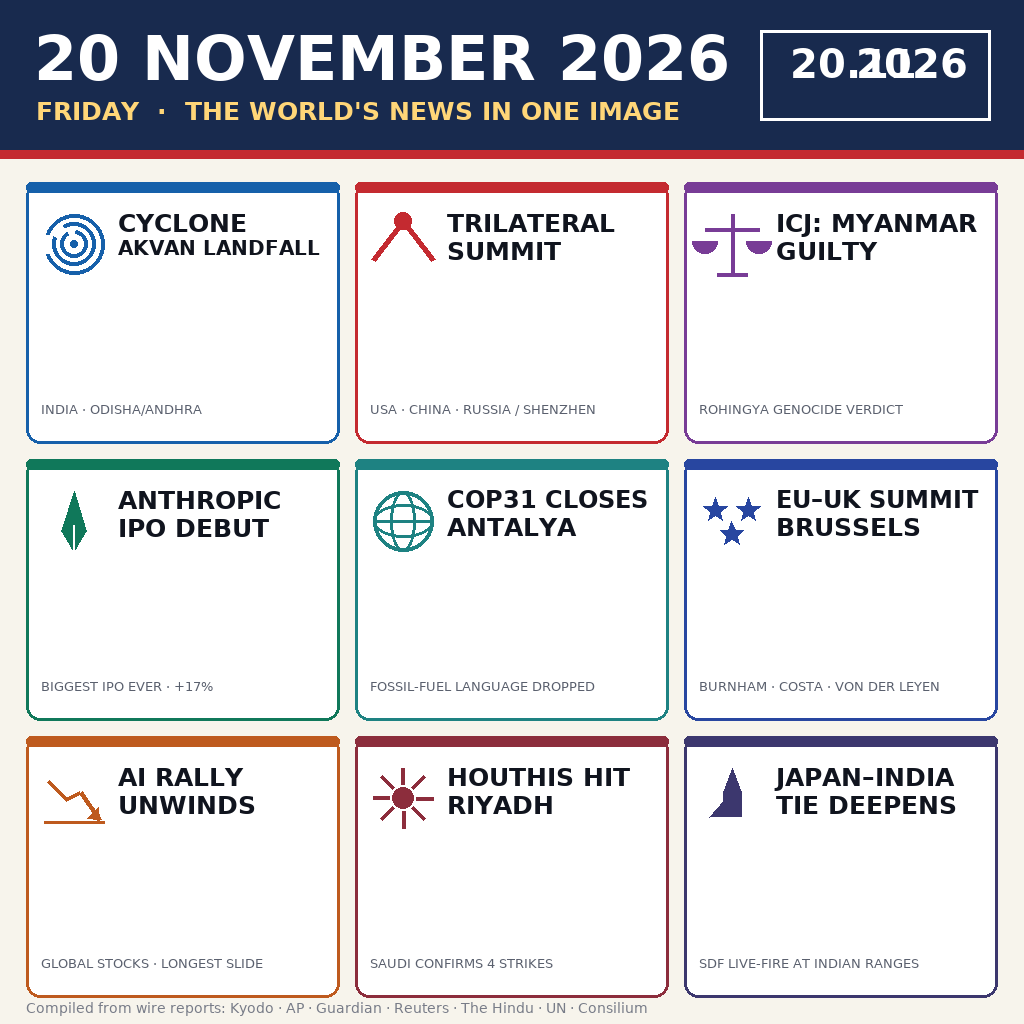
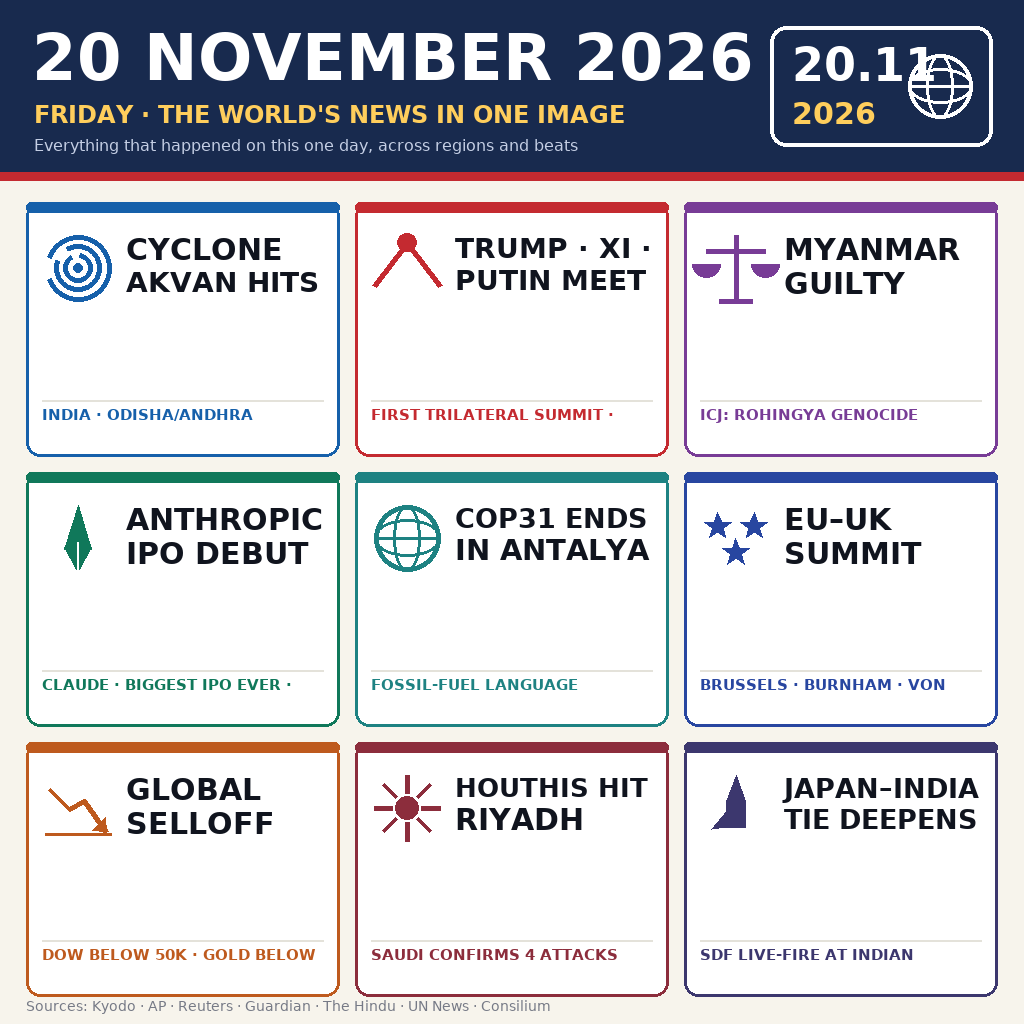
Sharpen poster: name the day, name leaders, larger type, date badge

diff --git a/draw_news.py b/draw_news.py
@@ -21,16 +21,16 @@ PAPER = (247, 244, 236)
 ACCENT = (196, 42, 48)
 NAVY = (24, 42, 78)
 
-# Each card: (title lines, region line, colour, icon kind)
+# Each card: (title lines, detail line, colour, icon kind)
 CARDS = [
-    (["CYCLONE", "AKVAN LANDFALL"], "INDIA · ODISHA/ANDHRA", (22, 96, 170), "cyclone"),
-    (["TRILATERAL", "SUMMIT"], "USA · CHINA · RUSSIA / SHENZHEN", ACCENT, "summit"),
-    (["ICJ: MYANMAR", "GUILTY"], "ROHINGYA GENOCIDE VERDICT", (120, 60, 150), "scales"),
-    (["ANTHROPIC", "IPO DEBUT"], "BIGGEST IPO EVER · +17%", (16, 120, 90), "rocket"),
-    (["COP31 CLOSES", "ANTALYA"], "FOSSIL-FUEL LANGUAGE DROPPED", (30, 130, 130), "globe"),
-    (["EU–UK SUMMIT", "BRUSSELS"], "BURNHAM · COSTA · VON DER LEYEN", (40, 70, 160), "stars"),
-    (["AI RALLY", "UNWINDS"], "GLOBAL STOCKS · LONGEST SLIDE", (190, 90, 30), "chart"),
-    (["HOUTHIS HIT", "RIYADH"], "SAUDI CONFIRMS 4 STRIKES", (140, 45, 60), "blast"),
+    (["CYCLONE", "AKVAN HITS"], "INDIA · ODISHA/ANDHRA", (22, 96, 170), "cyclone"),
+    (["TRUMP · XI ·", "PUTIN MEET"], "FIRST TRILATERAL SUMMIT · SHENZHEN", ACCENT, "summit"),
+    (["MYANMAR", "GUILTY"], "ICJ: ROHINGYA GENOCIDE VERDICT", (120, 60, 150), "scales"),
+    (["ANTHROPIC", "IPO DEBUT"], "CLAUDE · BIGGEST IPO EVER · +17%", (16, 120, 90), "rocket"),
+    (["COP31 ENDS", "IN ANTALYA"], "FOSSIL-FUEL LANGUAGE DROPPED", (30, 130, 130), "globe"),
+    (["EU–UK", "SUMMIT"], "BRUSSELS · BURNHAM · VON DER LEYEN", (40, 70, 160), "stars"),
+    (["GLOBAL", "SELLOFF"], "DOW BELOW 50K · GOLD BELOW $3,600", (190, 90, 30), "chart"),
+    (["HOUTHIS HIT", "RIYADH"], "SAUDI CONFIRMS 4 ATTACKS", (140, 45, 60), "blast"),
     (["JAPAN–INDIA", "TIE DEEPENS"], "SDF LIVE-FIRE AT INDIAN RANGES", (60, 55, 110), "missile"),
 ]
 
@@ -138,39 +138,53 @@ def draw_card(d, card, x, y, cw, ch):
     d.rounded_rectangle((x, y, x + cw, y + ch), radius=14, fill=(255, 255, 255),
                         outline=col, width=3)
     d.rounded_rectangle((x, y, x + cw, y + 10), radius=5, fill=col)
-    icon(d, kind, x + 48, y + 62, 30, col)
-    tx = x + 92
-    ty = y + 26
+    icon(d, kind, x + 52, y + 66, 33, col)
+    tx = x + 100
+    ty = y + 30
     for t in titles:
-        f = fit(d, t, FONT_BOLD, cw - 108, 25)
+        f = fit(d, t, FONT_BOLD, cw - 116, 30)
         d.text((tx, ty), t, font=f, fill=INK)
-        ty += f.size + 3
-    fr = font(FONT_REG, 13)
+        ty += f.size + 4
+    fr = font(FONT_BOLD, 15)
     for line in wrap(d, region, fr, cw - 30):
-        d.text((x + 15, y + ch - 42), line, font=fr, fill=(90, 96, 110))
+        d.text((x + 16, y + ch - 50), line, font=fr, fill=col)
         break
+    d.line((x + 16, y + ch - 56, x + cw - 16, y + ch - 56), fill=(228, 226, 218), width=2)
 
 
 def build():
     img = Image.new("RGB", (W, H), PAPER)
     d = ImageDraw.Draw(img)
 
-    d.rectangle((0, 0, W, 150), fill=NAVY)
-    d.rectangle((0, 150, W, 158), fill=ACCENT)
-    f_date = font(FONT_BOLD, 62)
-    d.text((34, 22), "20 NOVEMBER 2026", font=f_date, fill=(255, 255, 255))
-    f_sub = font(FONT_BOLD, 25)
-    d.text((36, 96), "FRIDAY  ·  THE WORLD'S NEWS IN ONE IMAGE", font=f_sub,
-           fill=(255, 214, 120))
-    d.rectangle((760, 30, 990, 120), outline=(255, 255, 255), width=3)
-    f_bd = font(FONT_BOLD, 40)
-    d.text((790, 40), "20.11", font=f_bd, fill=(255, 255, 255))
-    f_bd2 = font(FONT_BOLD, 40)
-    d.text((856, 40), "2026", font=f_bd2, fill=(255, 255, 255))
+    d.rectangle((0, 0, W, 172), fill=NAVY)
+    d.rectangle((0, 172, W, 180), fill=ACCENT)
+    f_date = font(FONT_BOLD, 64)
+    d.text((32, 20), "20 NOVEMBER 2026", font=f_date, fill=(255, 255, 255))
+    f_sub = font(FONT_BOLD, 24)
+    d.text((34, 100), "FRIDAY · THE WORLD'S NEWS IN ONE IMAGE", font=f_sub,
+           fill=(255, 206, 92))
+    f_sub2 = font(FONT_REG, 16)
+    d.text((34, 136), "Everything that happened on this one day, across regions and beats",
+           font=f_sub2, fill=(196, 206, 228))
+
+    # date badge with a small globe, so the day reads at a glance
+    bx = 770
+    d.rounded_rectangle((bx, 26, 992, 146), radius=16, outline=(255, 255, 255), width=4)
+    f_bd = font(FONT_BOLD, 46)
+    d.text((bx + 22, 38), "20.11", font=f_bd, fill=(255, 255, 255))
+    d.text((bx + 22, 96), "2026", font=font(FONT_BOLD, 30), fill=(255, 206, 92))
+    gx, gy, gr = 940, 86, 32
+    d.ellipse((gx - gr, gy - gr, gx + gr, gy + gr), outline=(255, 255, 255),
+              width=4)
+    d.ellipse((gx - gr * 0.42, gy - gr, gx + gr * 0.42, gy + gr), outline=(255, 255, 255),
+              width=3)
+    d.line((gx - gr, gy, gx + gr, gy), fill=(255, 255, 255), width=3)
+    d.arc((gx - gr, gy - gr * 0.55, gx + gr, gy + gr * 0.55), 0, 180, fill=(255, 255, 255), width=3)
+    d.arc((gx - gr, gy - gr * 0.55, gx + gr, gy + gr * 0.55), 180, 360, fill=(255, 255, 255), width=3)
 
     cols, rows = 3, 3
     m, gap = 26, 16
-    top = 182
+    top = 202
     cw = (W - 2 * m - (cols - 1) * gap) // cols
     ch = (H - top - m - (rows - 1) * gap) // rows
     for i, card in enumerate(CARDS):
@@ -178,8 +192,8 @@ def build():
         draw_card(d, card, m + c * (cw + gap), top + r * (ch + gap), cw, ch)
 
     f_foot = font(FONT_REG, 14)
-    d.text((m, H - 24), "Compiled from wire reports: Kyodo · AP · Guardian · Reuters · The Hindu · UN · Consilium",
-           font=f_foot, fill=(120, 124, 136))
+    d.text((m, H - 26), "Sources: Kyodo · AP · Reuters · Guardian · The Hindu · UN News · Consilium",
+           font=f_foot, fill=(118, 122, 134))
     return img
 
 

diff --git a/main.py b/main.py
@@ -27,6 +27,5 @@ def main() -> int:
     print(f"wrote {dst} ({dst.stat().st_size} bytes)")
     return 0
 
-
 if __name__ == "__main__":
     raise SystemExit(main())
